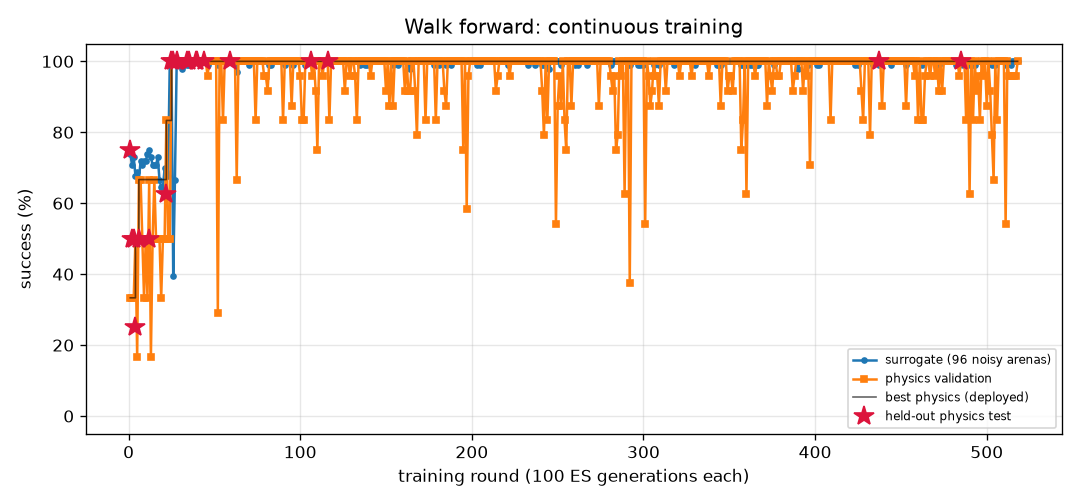
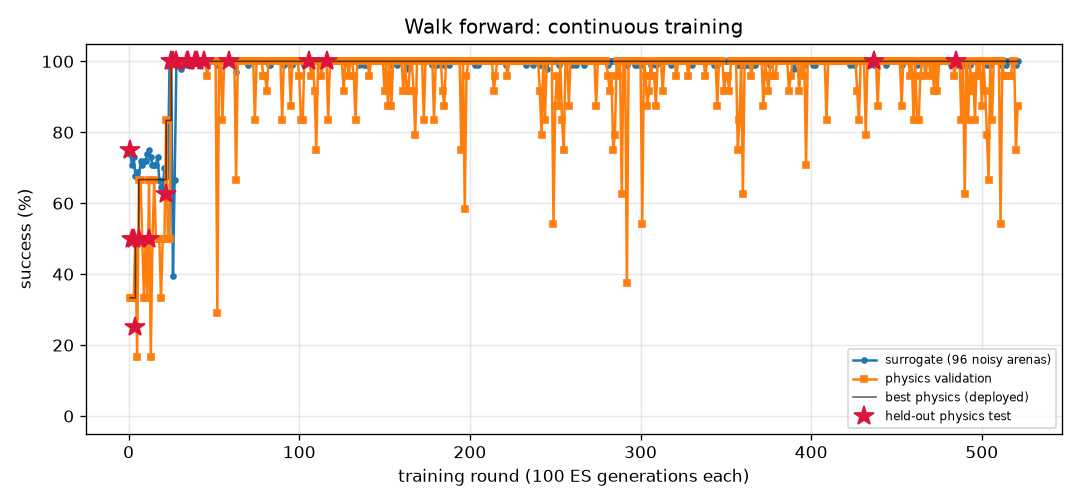
FlyLab: daily snapshot 2026-11-24
Daily entry in projects/09_flylab/training/daily/2026-11.md, plus 13 uncommitted training output file(s).

diff --git a/projects/09_flylab/training/odor_seek/REPORT.md b/projects/09_flylab/training/odor_seek/REPORT.md
@@ -1,14 +1,14 @@
 # Find food by smell (`odor_seek`) — training report
 
-*Auto-generated by `train_brains.py`, last updated 2026-11-23T22:12:38.*
+*Auto-generated by `train_brains.py`, last updated 2026-11-23T23:15:53.*
 
 ![curve](curve.png)
 
 | | |
 |---|---|
-| rounds | 323 |
-| ES generations | 32300 |
-| physics runs | 7246 |
+| rounds | 326 |
+| ES generations | 32600 |
+| physics runs | 7318 |
 | status | **optimal** |
 | best brain | round 240: physics validation **100%** on 24 arenas, surrogate 100% |
 | held-out physics test | **100%** on 32 unseen arenas (95% CI 89%-100%) (errors: [0.02, 0.03, 0.03, 0.05, 0.04, 0.05, 0.06, 0.07, 0.09, 0.05, 0.05, 0.01, 0.12, 0.03, 0.07, 0.08, 0.02, 0.06, 0.03, 0.04, 0.0, 0.01, 0.09, 0.05, 0.04, 0.01, 0.07, 0.05, 0.08, 0.05, 0.05, 0.02]) |
@@ -17,9 +17,6 @@ Physics error per arena: mm from target at the end (< 1.5 and standing still = s
 
 | round | level | gens | sigma | surrogate | physics val | val errors | test | note |
 |---:|---:|---:|---:|---:|---:|---|---:|---|
-| 284 | 3 | 28400 | 0.024 | 100% | 100% | [0.09, 0.15, 0.15, 0.15, 0.11, 0.2, 0.22, 0.11, 0.06, 0.22, 0.04, 0.07, 0.2, 0.13, 0.09, 0.11, 0.07, 0.18, 0.13, 0.12, 0.06, 0.13, 0.15, 0.13] |  | restart from best |
-| 285 | 3 | 28500 | 0.024 | 100% | 100% | [0.15, 0.15, 0.17, 0.19, 0.15, 0.13, 0.14, 0.18, 0.17, 0.14, 0.14, 0.14, 0.1, 0.12, 0.13, 0.13, 0.19, 0.17, 0.13, 0.16, 0.12, 0.07, 0.18, 0.15] |  |  |
-| 286 | 3 | 28600 | 0.024 | 100% | 100% | [0.15, 0.15, 0.15, 0.15, 0.16, 0.17, 0.21, 0.17, 0.12, 0.19, 0.07, 0.13, 0.21, 0.11, 0.14, 0.19, 0.14, 0.12, 0.11, 0.15, 0.2, 0.21, 0.21, 0.11] |  |  |
 | 287 | 3 | 28700 | 0.024 | 100% | 100% | [0.18, 0.25, 0.18, 0.2, 0.24, 0.22, 0.18, 0.21, 0.19, 0.24, 0.22, 0.18, 0.18, 0.19, 0.2, 0.27, 0.22, 0.22, 0.23, 0.22, 0.19, 0.16, 0.25, 0.24] |  |  |
 | 288 | 3 | 28800 | 0.024 | 100% | 100% | [0.19, 0.17, 0.17, 0.2, 0.17, 0.22, 0.17, 0.17, 0.15, 0.2, 0.17, 0.22, 0.17, 0.17, 0.21, 0.19, 0.15, 0.19, 0.19, 0.23, 0.16, 0.18, 0.22, 0.14] |  | restart from best |
 | 289 | 3 | 28900 | 0.024 | 100% | 96% | [0.11, 0.11, 0.1, 0.11, 0.09, 0.18, 0.06, 0.21, 0.12, 0.07, 13.19, 0.11, 0.04, 0.17, 0.16, 0.14, 0.06, 0.13, 0.14, 0.17, 0.05, 0.08, 0.09, 0.05] |  |  |
@@ -57,3 +54,6 @@ Physics error per arena: mm from target at the end (< 1.5 and standing still = s
 | 321 | 3 | 32100 | 0.024 | 100% | 100% | [0.28, 0.13, 0.16, 0.27, 0.12, 0.14, 0.14, 0.24, 0.16, 0.11, 0.16, 0.18, 0.14, 0.18, 0.15, 0.11, 0.18, 0.12, 0.18, 0.25, 0.15, 0.18, 0.18, 0.19] |  |  |
 | 322 | 3 | 32200 | 0.024 | 100% | 100% | [0.16, 0.17, 0.21, 0.19, 0.14, 0.16, 0.16, 0.22, 0.2, 0.17, 0.21, 0.22, 0.15, 0.21, 0.19, 0.21, 0.23, 0.16, 0.21, 0.2, 0.22, 0.21, 0.15, 0.24] |  |  |
 | 323 | 3 | 32300 | 0.024 | 100% | 100% | [0.19, 0.14, 0.14, 0.17, 0.23, 0.09, 0.25, 0.13, 0.14, 0.11, 0.17, 0.18, 0.17, 0.18, 0.15, 0.22, 0.16, 0.15, 0.12, 0.17, 0.18, 0.15, 0.15, 0.17] |  |  |
+| 324 | 3 | 32400 | 0.024 | 100% | 100% | [0.15, 0.14, 0.23, 0.13, 0.16, 0.14, 0.13, 0.14, 0.12, 0.14, 0.14, 0.13, 0.13, 0.15, 0.13, 0.21, 0.18, 0.09, 0.11, 0.15, 0.11, 0.16, 0.14, 0.13] |  | restart from best |
+| 325 | 3 | 32500 | 0.024 | 100% | 100% | [0.1, 0.09, 0.1, 0.16, 0.13, 0.17, 0.14, 0.08, 0.1, 0.01, 0.1, 0.09, 0.09, 0.1, 0.18, 0.06, 0.15, 0.1, 0.12, 0.2, 0.16, 0.07, 0.12, 0.11] |  |  |
+| 326 | 3 | 32600 | 0.024 | 100% | 100% | [0.06, 0.02, 0.12, 0.11, 0.05, 0.09, 0.12, 0.14, 0.14, 0.13, 0.19, 0.09, 0.21, 0.17, 0.09, 0.16, 0.07, 0.2, 0.16, 0.1, 0.1, 0.07, 0.09, 0.12] |  |  |

diff --git a/projects/09_flylab/training/walk_forward/REPORT.md b/projects/09_flylab/training/walk_forward/REPORT.md
@@ -1,14 +1,14 @@
 # Walk forward (`walk_forward`) — training report
 
-*Auto-generated by `train_brains.py`, last updated 2026-11-23T22:18:48.*
+*Auto-generated by `train_brains.py`, last updated 2026-11-23T22:58:19.*
 
 ![curve](curve.png)
 
 | | |
 |---|---|
-| rounds | 518 |
-| ES generations | 51800 |
-| physics runs | 12510 |
+| rounds | 521 |
+| ES generations | 52100 |
+| physics runs | 12582 |
 | status | **optimal** |
 | best brain | round 485: physics validation **100%** on 24 arenas, surrogate 100% |
 | held-out physics test | **100%** on 32 unseen arenas (95% CI 89%-100%) (errors: [0.14, 0.13, 0.15, 0.21, 0.14, 0.12, 0.13, 0.18, 0.2, 0.15, 0.13, 0.14, 0.2, 0.15, 0.12, 0.12, 0.14, 0.14, 0.13, 0.13, 0.14, 0.21, 0.14, 0.13, 0.14, 0.14, 0.18, 0.14, 0.14, 0.14, 0.17, 0.15]) |
@@ -17,9 +17,6 @@ Physics error per arena: mm from target at the end (< 1.5 and standing still = s
 
 | round | level | gens | sigma | surrogate | physics val | val errors | test | note |
 |---:|---:|---:|---:|---:|---:|---|---:|---|
-| 479 | 3 | 47900 | 0.024 | 100% | 100% | [0.23, 0.26, 0.18, 0.23, 0.26, 0.17, 0.26, 0.19, 0.26, 0.26, 0.17, 0.26, 0.19, 0.18, 0.24, 0.26, 0.21, 0.26, 0.2, 0.25, 0.21, 0.26, 0.26, 0.19] |  |  |
-| 480 | 3 | 48000 | 0.024 | 100% | 100% | [0.2, 0.19, 0.08, 0.13, 0.18, 0.05, 0.18, 0.05, 0.19, 0.21, 0.07, 0.2, 0.15, 0.03, 0.08, 0.19, 0.19, 0.16, 0.15, 0.08, 0.18, 0.22, 0.23, 0.08] |  |  |
-| 481 | 3 | 48100 | 0.024 | 100% | 100% | [0.34, 0.35, 0.28, 0.33, 0.35, 0.27, 0.34, 0.29, 0.34, 0.33, 0.27, 0.31, 0.29, 0.27, 0.34, 0.31, 0.32, 0.35, 0.3, 0.33, 0.31, 0.33, 0.3, 0.29] |  | restart from best |
 | 482 | 3 | 48200 | 0.025 | 99% | 100% | [0.26, 0.17, 0.24, 0.26, 0.17, 0.23, 0.15, 0.25, 0.14, 0.11, 0.22, 0.06, 0.25, 0.23, 0.12, 0.1, 0.26, 0.18, 0.25, 0.13, 0.25, 0.08, 0.12, 0.25] |  |  |
 | 483 | 3 | 48300 | 0.025 | 100% | 100% | [0.22, 0.27, 0.2, 0.21, 0.27, 0.07, 0.27, 0.19, 0.27, 0.28, 0.2, 0.26, 0.19, 0.19, 0.23, 0.27, 0.2, 0.26, 0.19, 0.24, 0.19, 0.28, 0.26, 0.19] |  |  |
 | 484 | 3 | 48400 | 0.024 | 99% | 96% | [0.08, 0.07, 0.14, 0.06, 0.06, 0.04, 0.06, 0.05, 0.05, 0.09, 0.09, 0.11, 0.12, 0.03, 0.1, 0.08, 0.05, 0.3, 0.06, 0.28, 0.05, 0.08, 0.08, 0.12] |  |  |
@@ -57,3 +54,6 @@ Physics error per arena: mm from target at the end (< 1.5 and standing still = s
 | 516 | 3 | 51600 | 0.024 | 100% | 96% | [0.05, 0.14, 0.11, 0.08, 0.13, 0.1, 0.13, 0.12, 0.15, 0.14, 0.11, 0.13, 0.12, 0.11, 0.14, 0.12, 0.12, 0.1, 0.11, 0.11, 0.11, 0.13, 0.05, 0.27] |  |  |
 | 517 | 3 | 51700 | 0.024 | 100% | 96% | [0.25, 0.27, 0.11, 0.25, 0.27, 0.03, 0.28, 0.11, 0.27, 0.19, 0.23, 0.11, 0.11, 0.07, 0.26, 0.14, 0.23, 0.27, 0.18, 0.27, 0.21, 0.18, 0.15, 0.1] |  | restart from best |
 | 518 | 3 | 51800 | 0.024 | 100% | 100% | [0.22, 0.25, 0.17, 0.22, 0.25, 0.16, 0.25, 0.18, 0.25, 0.25, 0.16, 0.22, 0.18, 0.15, 0.24, 0.23, 0.22, 0.26, 0.18, 0.24, 0.2, 0.23, 0.22, 0.18] |  |  |
+| 519 | 3 | 51900 | 0.024 | 100% | 100% | [0.36, 0.34, 0.36, 0.36, 0.34, 0.35, 0.34, 0.35, 0.34, 0.33, 0.35, 0.31, 0.35, 0.35, 0.35, 0.32, 0.36, 0.34, 0.35, 0.35, 0.35, 0.33, 0.31, 0.36] |  |  |
+| 520 | 3 | 52000 | 0.024 | 99% | 75% | [0.1, 0.21, 0.11, 0.1, 0.02, 0.11, 0.04, 0.1, 0.08, 0.06, 0.12, 0.08, 0.83, 0.11, 0.11, 0.08, 0.1, 0.07, 1.09, 0.06, 0.08, 0.09, 0.15, 0.43] |  |  |
+| 521 | 3 | 52100 | 0.025 | 100% | 88% | [0.08, 0.25, 0.5, 0.06, 0.25, 0.02, 0.24, 0.04, 0.25, 0.25, 0.04, 0.11, 0.11, 0.03, 0.2, 0.17, 0.1, 0.24, 0.04, 0.22, 0.08, 0.25, 0.1, 0.34] |  | restart from best |

diff --git a/projects/09_flylab/training/turn/REPORT.md b/projects/09_flylab/training/turn/REPORT.md
@@ -1,14 +1,14 @@
 # Turn in place (`turn`) — training report
 
-*Auto-generated by `train_brains.py`, last updated 2026-11-23T19:35:18.*
+*Auto-generated by `train_brains.py`, last updated 2026-11-23T23:15:12.*
 
 ![curve](curve.png)
 
 | | |
 |---|---|
-| rounds | 1320 |
-| ES generations | 132000 |
-| physics runs | 31926 |
+| rounds | 1322 |
+| ES generations | 132200 |
+| physics runs | 31974 |
 | status | **optimal** |
 | best brain | round 80: physics validation **100%** on 24 arenas, surrogate 100% |
 | held-out physics test | **97%** on 32 unseen arenas (95% CI 84%-99%) (errors: [1.6, 3.3, 6.3, 3.7, 1.1, 0.4, 2.4, 2.9, 0.1, 2.6, 0.5, 2.7, 1.5, 3.1, 4.5, 0.2, 0.5, 1.1, 2.0, 4.4, 2.8, 3.2, 0.3, 2.2, 0.5, 3.0, 0.3, 5.4, 0.4, 1.0, 4.7, 10.7]) |
@@ -17,8 +17,6 @@ Physics error per arena: deg from target heading (< 20 = success).
 
 | round | level | gens | sigma | surrogate | physics val | val errors | test | note |
 |---:|---:|---:|---:|---:|---:|---|---:|---|
-| 1281 | 3 | 128100 | 0.024 | 99% | 88% | [3.7, 7.1, 2.1, 1.9, 2.6, 3.9, 5.6, 5.4, 6.1, 14.2, 4.7, 0.1, 1.1, 2.3, 4.4, 2.7, 0.1, 2.6, 3.7, 9.1, 4.9, 2.4, 6.4, 5.6] |  |  |
-| 1282 | 3 | 128200 | 0.025 | 99% | 92% | [1.2, 5.7, 5.0, 2.2, 0.2, 16.7, 6.2, 6.0, 6.8, 0.1, 4.0, 0.9, 1.7, 0.8, 3.1, 10.5, 1.0, 0.5, 8.0, 0.4, 5.8, 1.3, 5.9, 3.0] |  |  |
 | 1283 | 3 | 128300 | 0.025 | 99% | 79% | [2.2, 3.2, 0.4, 0.3, 1.0, 0.8, 8.3, 9.8, 7.4, 2.7, 4.9, 3.5, 1.5, 1.6, 5.3, 2.9, 3.3, 3.3, 15.8, 4.3, 5.7, 2.6, 7.3, 5.0] |  |  |
 | 1284 | 3 | 128400 | 0.025 | 98% | 92% | [5.2, 7.1, 1.5, 4.1, 3.3, 0.6, 4.2, 7.1, 3.2, 0.6, 3.3, 0.2, 0.8, 2.9, 2.6, 0.5, 0.4, 0.9, 8.0, 0.1, 6.7, 0.5, 4.9, 2.6] |  | restart from best |
 | 1285 | 3 | 128500 | 0.024 | 100% | 83% | [6.9, 7.9, 1.9, 4.8, 11.7, 5.2, 4.2, 1.2, 4.6, 0.6, 2.9, 2.2, 0.7, 1.0, 3.4, 1.8, 2.7, 0.2, 1.2, 0.4, 4.6, 1.1, 2.3, 4.4] |  |  |
@@ -57,3 +55,5 @@ Physics error per arena: deg from target heading (< 20 = success).
 | 1318 | 3 | 131800 | 0.024 | 98% | 79% | [5.9, 1.4, 4.2, 1.5, 10.9, 1.3, 6.5, 8.4, 6.0, 1.1, 5.8, 1.1, 0.1, 1.5, 5.3, 3.8, 1.0, 1.8, 2.3, 3.9, 2.6, 0.8, 6.3, 6.5] |  |  |
 | 1319 | 3 | 131900 | 0.025 | 99% | 100% | [4.2, 6.0, 5.4, 3.7, 10.7, 0.5, 4.2, 7.0, 4.0, 0.5, 4.0, 0.2, 0.7, 2.8, 3.1, 1.3, 0.1, 0.5, 1.0, 1.1, 4.7, 1.6, 4.9, 2.0] |  |  |
 | 1320 | 3 | 132000 | 0.025 | 100% | 96% | [2.8, 0.3, 2.7, 1.8, 0.4, 3.5, 5.3, 9.9, 6.7, 0.8, 3.8, 2.5, 1.7, 1.5, 3.9, 2.7, 2.7, 2.6, 2.5, 2.7, 3.2, 2.3, 6.4, 3.6] |  | restart from best |
+| 1321 | 3 | 132100 | 0.024 | 98% | 88% | [7.3, 9.6, 0.1, 0.4, 2.1, 2.5, 4.7, 0.6, 3.4, 1.9, 2.4, 2.4, 0.4, 2.7, 2.5, 5.1, 2.7, 0.1, 5.0, 5.6, 7.7, 0.0, 4.4, 5.6] |  |  |
+| 1322 | 3 | 132200 | 0.025 | 99% | 79% | [5.0, 3.4, 0.0, 1.2, 2.1, 3.6, 5.7, 5.2, 5.1, 1.1, 4.8, 0.7, 1.5, 1.6, 3.9, 1.7, 0.0, 0.3, 2.0, 2.5, 5.9, 0.3, 4.0, 3.4] |  |  |

diff --git a/projects/09_flylab/training/TRAINING.md b/projects/09_flylab/training/TRAINING.md
@@ -1,15 +1,15 @@
 # FlyLab brains — continuous training log
 
-*Auto-generated by `train_brains.py`, last updated 2026-11-23T22:18:48.*
+*Auto-generated by `train_brains.py`, last updated 2026-11-23T23:15:53.*
 
 Every skill has its own brain and its own training process: surrogate ES rounds, physics validation in MuJoCo, keep-the-best selection, and a held-out physics test that is never used for selection. See each skill's report for its full round-by-round history. Mastery is progressive: passing a level (100% physics validation, >=95% surrogate) doubles the validation and test arena sets; a brain is **optimal** once it holds up at level 3 (>=95% of 24 validation arenas) AND scores >=90% on the 32 held-out test arenas. Test columns show 95% Wilson confidence intervals.
 
 | skill | rounds | ES generations | physics runs | surrogate | physics val | **physics test** | status |
 |---|---:|---:|---:|---:|---:|---:|---|
-| [Walk forward](walk_forward/REPORT.md) | 518 | 51800 | 12510 | 100% | 100% of 24 | 100% of 32 (CI 89-100%) | **optimal** |
-| [Turn in place](turn/REPORT.md) | 1320 | 132000 | 31926 | 100% | 100% of 24 | 97% of 32 (CI 84-99%) | **optimal** |
+| [Walk forward](walk_forward/REPORT.md) | 521 | 52100 | 12582 | 100% | 100% of 24 | 100% of 32 (CI 89-100%) | **optimal** |
+| [Turn in place](turn/REPORT.md) | 1322 | 132200 | 31974 | 100% | 100% of 24 | 97% of 32 (CI 84-99%) | **optimal** |
 | [Go to a location](goto/REPORT.md) | 402 | 40200 | 9598 | 100% | 100% of 24 | 100% of 32 (CI 89-100%) | **optimal** |
-| [Find food by smell](odor_seek/REPORT.md) | 323 | 32300 | 7246 | 100% | 100% of 24 | 100% of 32 (CI 89-100%) | **optimal** |
+| [Find food by smell](odor_seek/REPORT.md) | 326 | 32600 | 7318 | 100% | 100% of 24 | 100% of 32 (CI 89-100%) | **optimal** |
 | [Escape a bad smell](odor_avoid/REPORT.md) | 1114 | 111400 | 24042 | 97% | 100% of 24 | 97% of 32 (CI 84-99%) | **optimal** |
 | [Walk toward light](light_seek/REPORT.md) | 604 | 60400 | 11376 | 100% | 100% of 24 | 100% of 32 (CI 89-100%) | **optimal** |
 | [Hide from light](light_avoid/REPORT.md) | 829 | 82900 | 20168 | 100% | 100% of 24 | 100% of 32 (CI 89-100%) | **optimal** |

diff --git a/projects/09_flylab/training/daily/2026-11.md b/projects/09_flylab/training/daily/2026-11.md
@@ -241,3 +241,18 @@ Written by daily_commit.py once a day.
 
 - training supervisor: running
 - commits in the last 24 h: 14 (latest `1bf7248 00:09 FlyLab: continuous training progress`)
+
+## 2026-11-24 (Tue)
+
+| brain | state | level | physics val | test | round |
+|---|---|---|---|---|---|
+| walk_forward | optimal | 3 | 100% of 24 | 100% | 521 |
+| turn | optimal | 3 | 100% of 24 | 97% | 1322 |
+| goto | optimal | 3 | 100% of 24 | 100% | 402 |
+| odor_seek | optimal | 3 | 100% of 24 | 100% | 326 |
+| odor_avoid | optimal | 3 | 100% of 24 | 97% | 1114 |
+| light_seek | optimal | 3 | 100% of 24 | 100% | 604 |
+| light_avoid | optimal | 3 | 100% of 24 | 100% | 829 |
+
+- training supervisor: running
+- commits in the last 24 h: 13 (latest `2c10a85 22:31 FlyLab: continuous training progress`)
